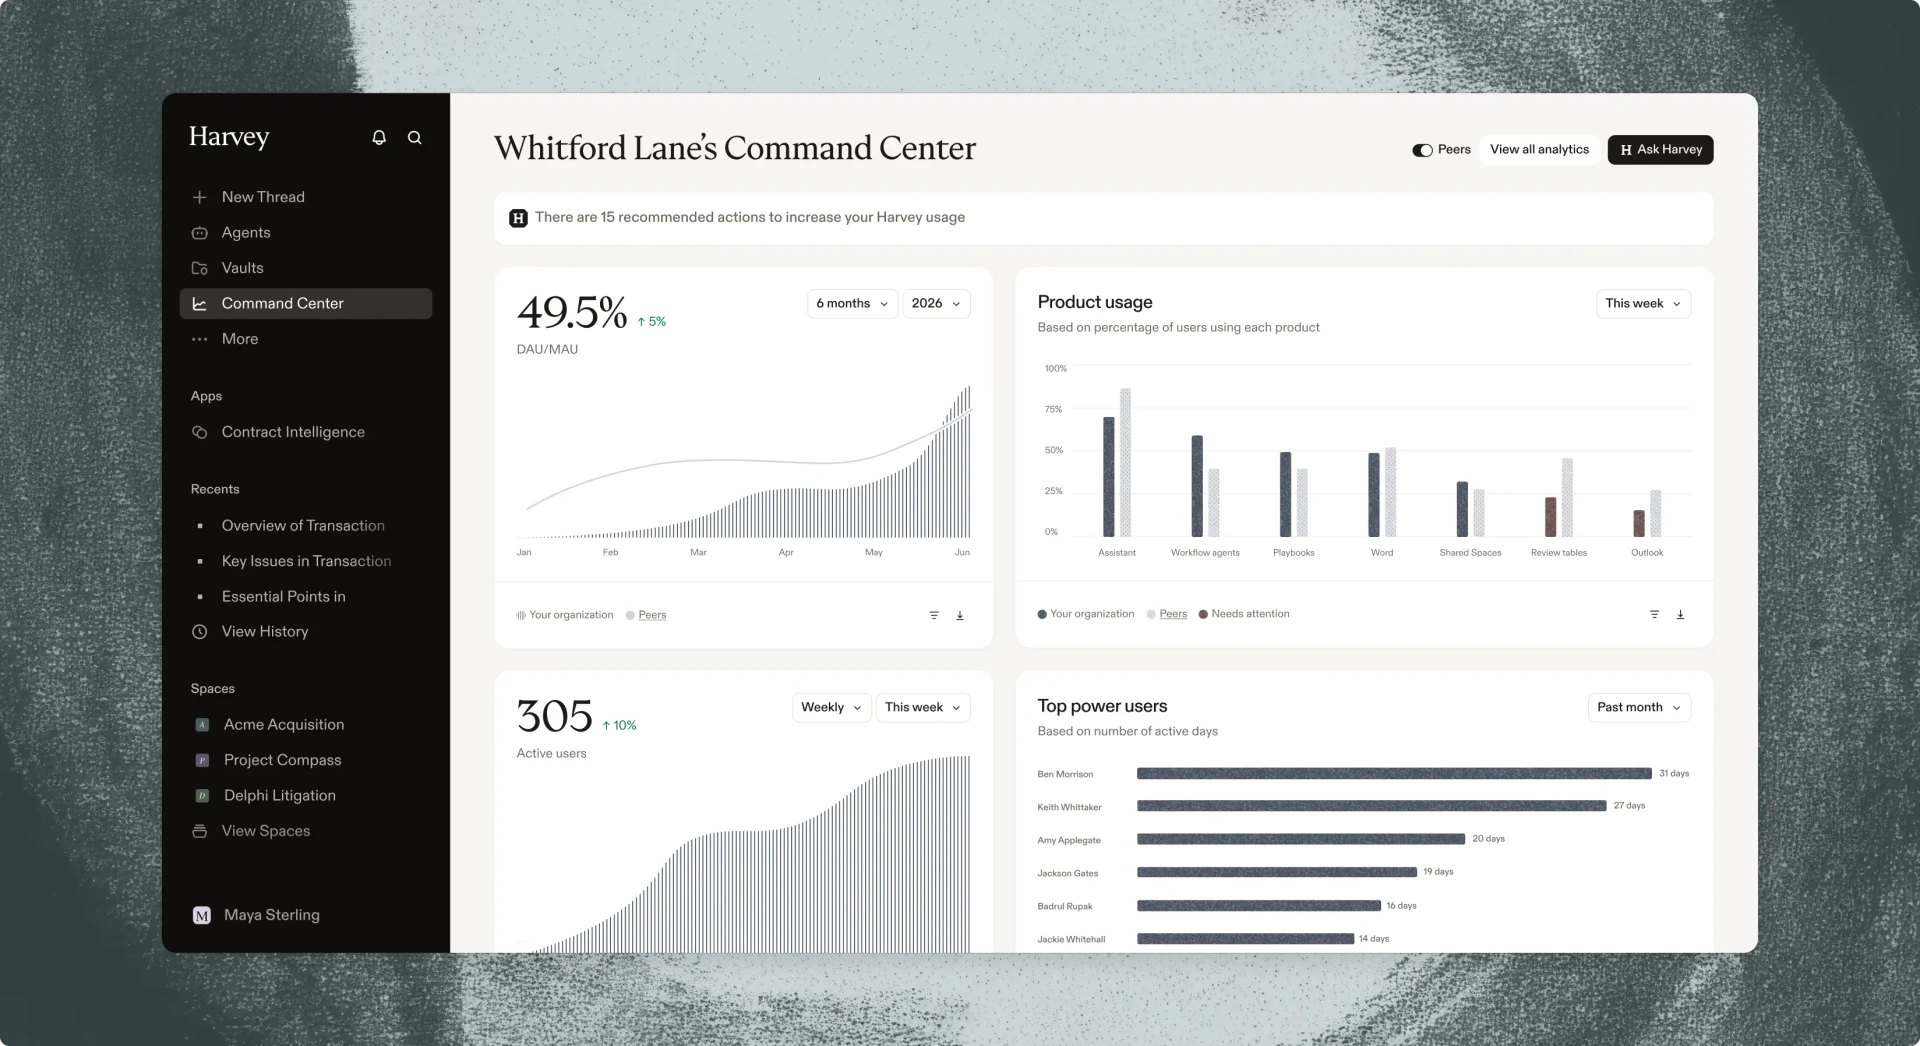
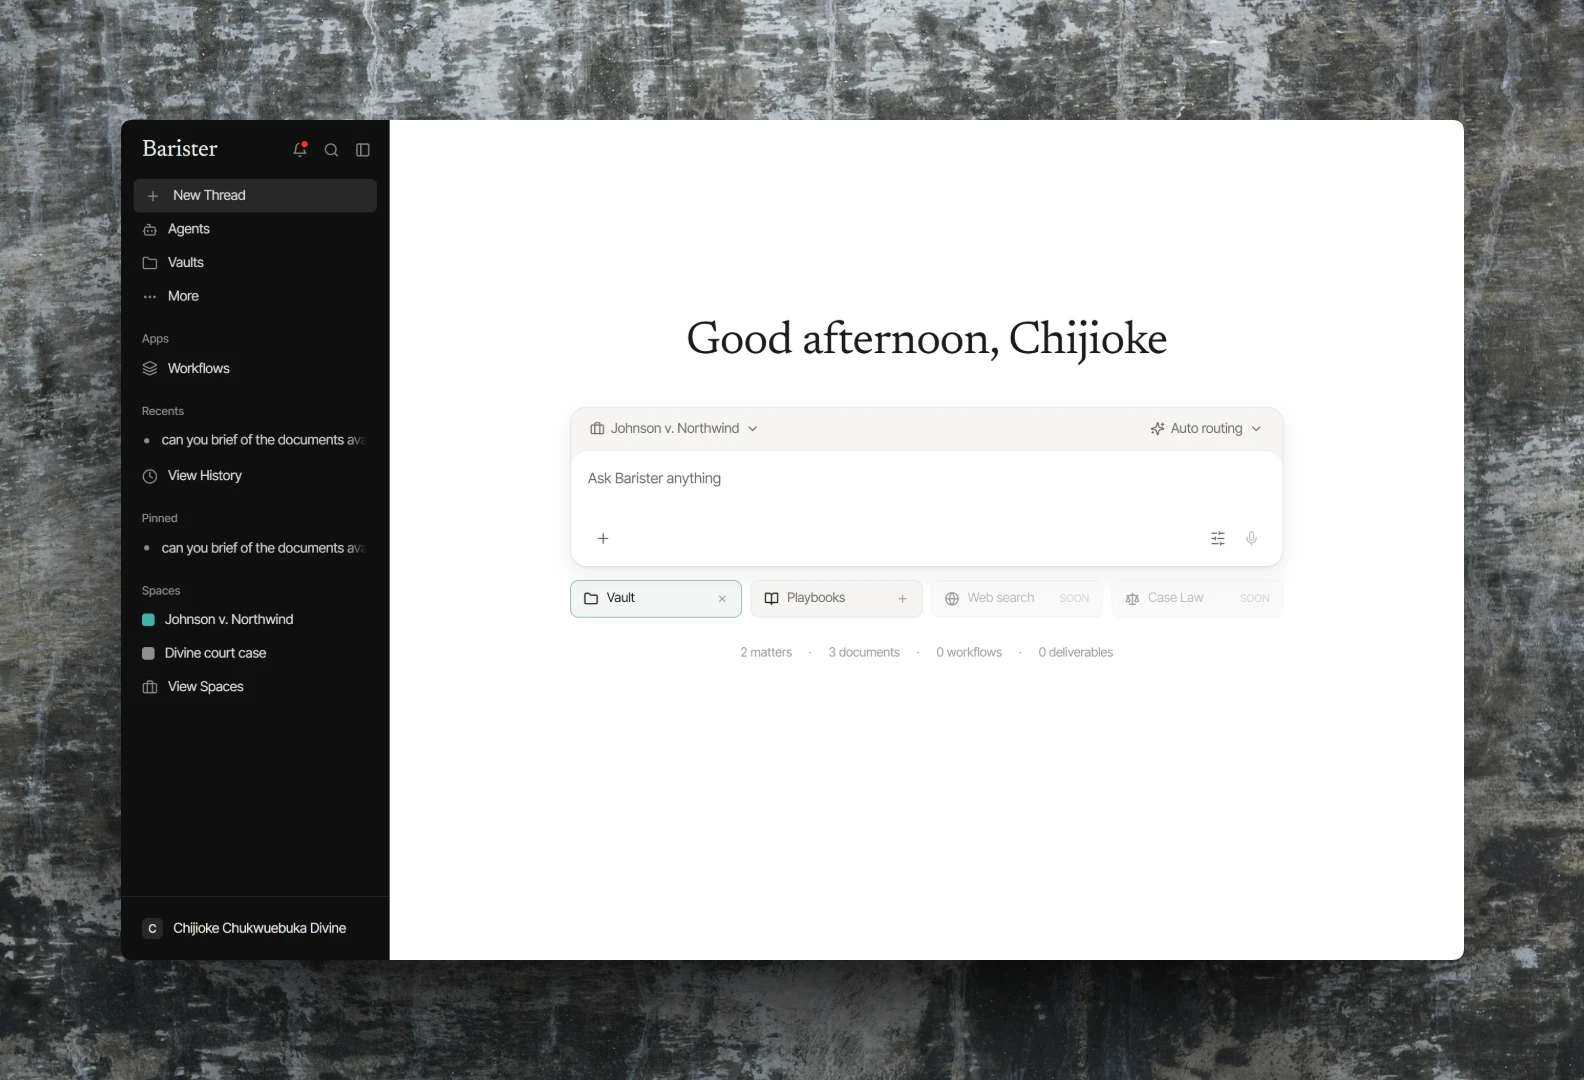
Refactor code structure for improved readability and maintainability

diff --git a/src/lib/db.ts b/src/lib/db.ts
@@ -39,6 +39,26 @@ export function getPool(): Pool {
   return pool;
 }
 
+/** DNS hiccups (VPN, hotspot, flaky resolver) surface as these codes while the pool opens a socket. */
+const DNS_ERROR_CODES = new Set(["ENOTFOUND", "EAI_AGAIN"]);
+
+const isDnsError = (err: unknown) => DNS_ERROR_CODES.has((err as NodeJS.ErrnoException | undefined)?.code ?? "");
+
+/**
+ * A DNS failure happens before the statement reaches Postgres, so retrying it
+ * can never double-apply a write. Other errors are passed straight through.
+ */
+async function queryWithDnsRetry<T extends QueryResultRow>(text: string, values: unknown[]): Promise<QueryResult<T>> {
+  for (let attempt = 1; ; attempt++) {
+    try {
+      return await getPool().query<T>(text, values);
+    } catch (err) {
+      if (attempt >= 3 || !isDnsError(err)) throw err;
+      await new Promise((resolve) => setTimeout(resolve, attempt * 250));
+    }
+  }
+}
+
 export function query<T extends QueryResultRow = QueryResultRow>(text: string, values: unknown[] = []): Promise<QueryResult<T>> {
-  return getPool().query<T>(text, values);
+  return queryWithDnsRetry<T>(text, values);
 }

diff --git a/src/app/(auth)/layout.tsx b/src/app/(auth)/layout.tsx
@@ -7,9 +7,11 @@ export default function AuthLayout({ children }: { children: ReactNode }) {
   return (
     <div className="flex min-h-dvh bg-[#f9f7f3] text-[#0f0e0d]">
       <aside className="relative hidden w-[46%] max-w-[640px] flex-col justify-between overflow-hidden bg-[#3b1315] p-10 text-[#f9f7f3] lg:flex xl:p-14">
-        <div aria-hidden className="pointer-events-none absolute -right-24 top-1/4 size-[420px] rounded-full bg-[#f9f7f3]/[0.04] blur-3xl" />
+        <div aria-hidden className="pointer-events-none absolute inset-0 bg-[url('/images/pexels-khezez-34817114.jpg')] bg-cover bg-center" />
+        <div aria-hidden className="pointer-events-none absolute inset-0   bg-[#000]/10" />
+
         <Link href="/" aria-label="Barister home" className="relative w-fit rounded outline-none focus-visible:ring-2 focus-visible:ring-white/40">
-          <Wordmark className="text-[26px]" />
+          <Wordmark className="text-[26px] text-[#fff]" />
         </Link>
 
         <div className="relative max-w-[380px]">

diff --git a/src/components/auth/AuthForm.tsx b/src/components/auth/AuthForm.tsx
@@ -14,7 +14,7 @@ type FieldErrors = Partial<Record<"name" | "email" | "password", string>>;
 
 const COPY = {
   "sign-in": {
-    eyebrow: "Welcome back",
+  
     title: "Sign in to Barister",
     description: "Pick up your matters, documents and agent runs where you left off.",
     submit: "Sign in",
@@ -23,7 +23,7 @@ const COPY = {
     switchHref: "/sign-up",
   },
   "sign-up": {
-    eyebrow: "Get started",
+ 
     title: "Create your account",
     description: "Set up a workspace for your matters, vault and legal workflows.",
     submit: "Create account",
@@ -87,7 +87,7 @@ export function AuthForm({ mode, next }: { mode: Mode; next?: string }) {
 
   return (
     <div>
-      <p className="text-[11px] font-medium uppercase tracking-[0.2em] text-accent">{copy.eyebrow}</p>
+
       <h1 className="mt-2 font-serif text-[30px] leading-[1.1] tracking-[-0.02em] text-[#0f0e0d]">{copy.title}</h1>
       <p className="mt-2 text-[13px] leading-5 text-[#6b6a67]">{copy.description}</p>
 
